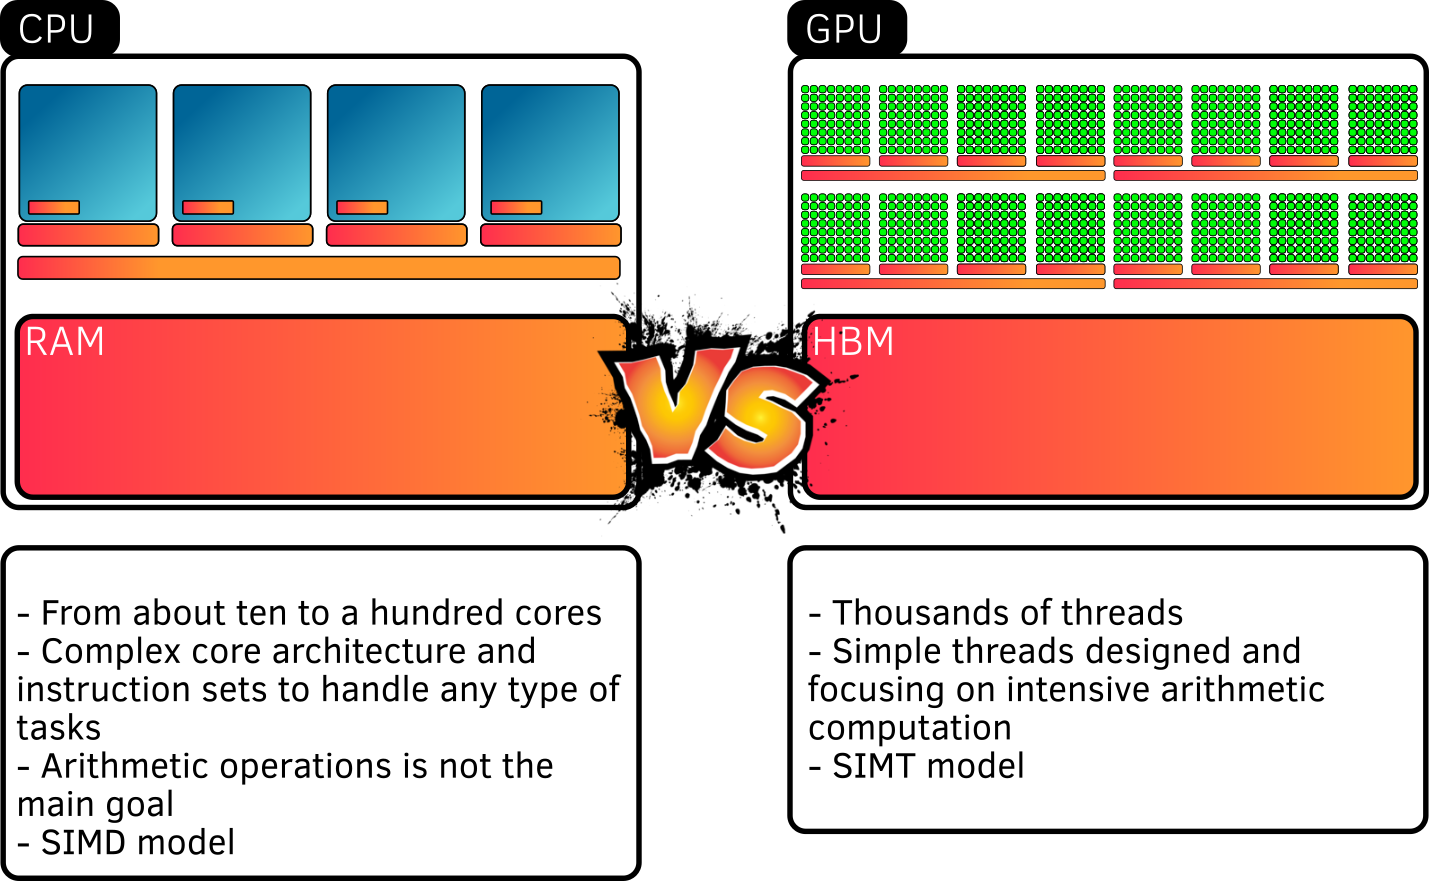
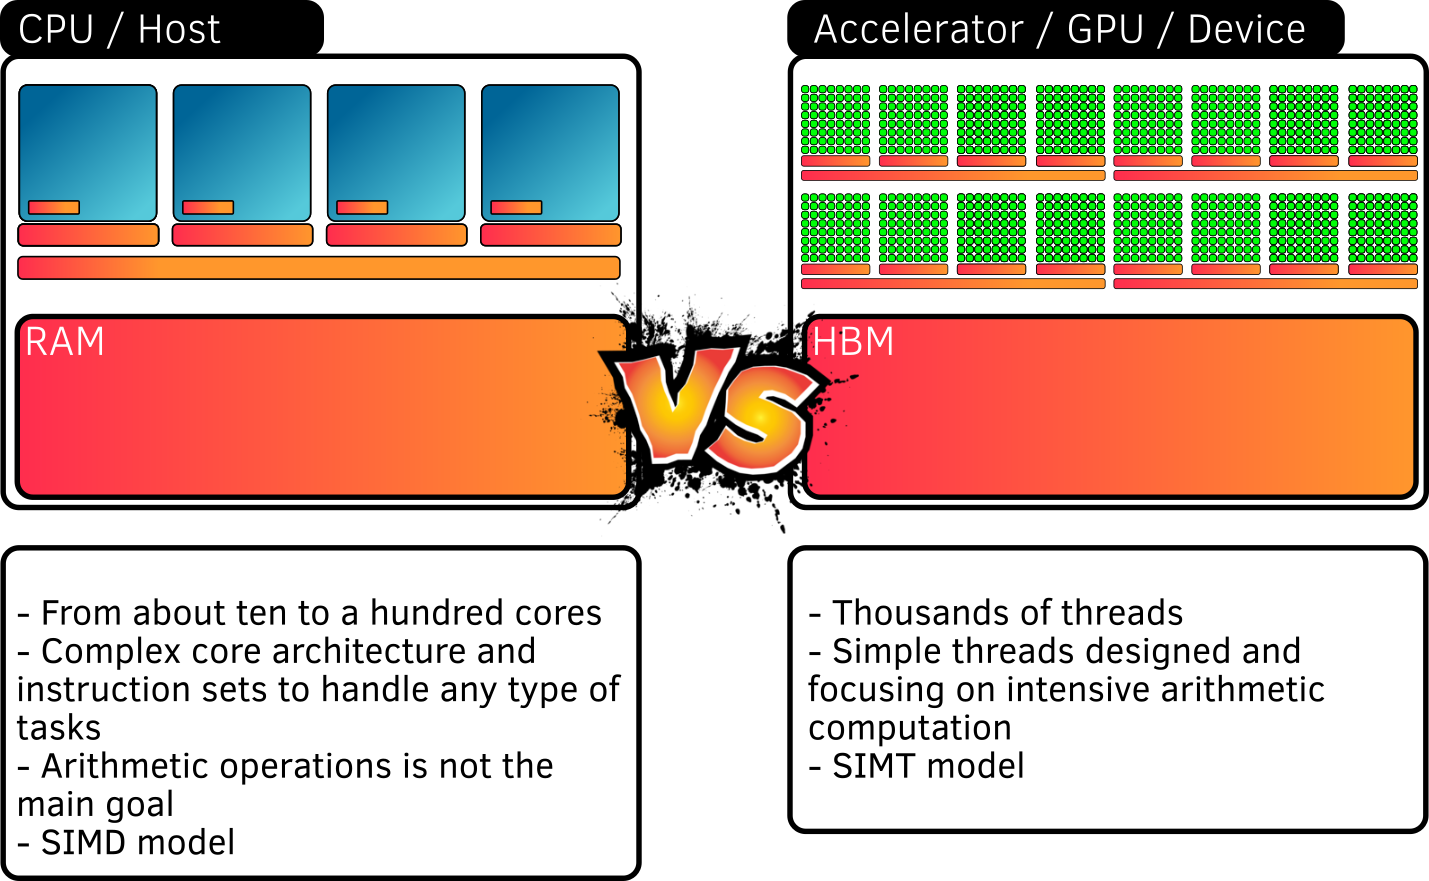
few more corrections

Changed region(s): [[0.5542, 0.0, 0.9545, 0.0613], [0.0616, 0.0, 0.2463, 0.0613]]

diff --git a/courses/01_beginners/main.tex b/courses/01_beginners/main.tex
@@ -7,6 +7,7 @@
 \usepackage[font=Times, timeinterval=1, timeduration=15]{tdclock}
 \usepackage{fontspec}
 \usepackage{pifont}
+\usepackage{hyperref}
 
 % Définir la police principale
 % \setmainfont{Clear Sans Light}
@@ -216,7 +217,8 @@ This course is intended for beginners in Kokkos and performance portability with
 
     \begin{itemize}
         \item A supercomputer is a distributed memory system composed of many compute nodes packed into racks and linked by a high-speed network
-        \item Compute nodes are composed of one or more CPUs and one or more GPUs
+        \item Compute nodes are composed of one or more CPUs and one or more accelerators
+        \item Most common accelerators today are GPGPU for General Purpose Graphic Processing Units
     \end{itemize}
 
     \begin{center}
@@ -232,7 +234,7 @@ This course is intended for beginners in Kokkos and performance portability with
     Architecture description
 
     \begin{itemize}
-        \item CPUs are designed for general purpose, from sequential task to parallel computing
+        \item CPUs are designed for general purpose, from sequential task to parallel computing. They run the operating system as well.
         \item tens to hundred of cores in biggest processors
         \item SIMD (Single Instruction Multiple Data) units for accelerating arithmetic operations
     \end{itemize}
@@ -251,7 +253,7 @@ This course is intended for beginners in Kokkos and performance portability with
 
 \small
 \begin{itemize}
-    \item GPGPUs (General Purpose Graphic Processing Units) are designed to achieve massive parallelism of simple kernels
+    \item GPUs are designed to achieve massive parallelism of simple kernels
     \item hundreds of computing units, thousands of threads
     \item Large SIMT vector unit (Single Instruction Multiple Threads) per computing unit
 \end{itemize}
@@ -273,6 +275,25 @@ This course is intended for beginners in Kokkos and performance portability with
     \begin{center}
         \includegraphics[width=0.8\textwidth]{../../images/cpu_vs_gpu.png}
     \end{center}
+
+\end{frame}
+
+% _____________________________________________________________________________
+
+\begin{frame}
+    \frametitle{Host / Device model}
+
+    \begin{itemize}
+        \item The program is always started first on the CPU.
+        \item The CPU is often referred to as the \highlight{Host}
+        \item The CPU orchestrates when the kernels are launched on the GPU and how to make the memory transfers
+        \item The GPU side waits for kernels to execute
+        \item The GPU is often referred to as the \highlight{Device}
+    \end{itemize}
+
+    \begin{alertblock}{}
+        Today's GPU can not work standalone
+    \end{alertblock}
 
 \end{frame}
 
@@ -602,7 +623,7 @@ cmake ${srcdir} -DCMAKE_INSTALL_PREFIX=${kokkos_install_folder} \
     \includegraphics[width=0.4\textwidth]{../../images/sleeping_otter.png}
     \end{center}
 
-    Go to the folder \texttt{01\_compiling\_kokkos} and follow the instructions in the README file
+    Go to the folder \href{https://github.com/CExA-project/cexa-kokkos-tutorials/tree/main/exercises/01_compiling_kokkos}{01\_compiling\_kokkos} and follow the instructions in the README file
 
     Goal of this Exercise:
     \begin{itemize}
@@ -694,7 +715,7 @@ target_link_libraries(test Kokkos::kokkos)
 
 \begin{itemize}
     \item Kokkos propagates its compilation flags to your program
-    \item If Kokkos not detected in your paths, use the \texttt{Kokkos\_ROOT} CMake variable to specify the path to Kokkos
+    \item If Kokkos is not detected in your paths, use the \texttt{Kokkos\_ROOT} CMake variable to specify the path to Kokkos
 \end{itemize}
 
 \small
@@ -714,6 +735,8 @@ cmake ${srcdir} \
     \begin{center}
     \includegraphics[width=0.4\textwidth]{../../images/sleeping_otter.png}
     \end{center}
+
+    Go to the folder \href{https://github.com/CExA-project/cexa-kokkos-tutorials/tree/main/exercises/02_first_program}{02\_first\_program} and follow the instructions in the README file
 
     Goal of this Exercise:
 
@@ -739,7 +762,7 @@ Why is it important to have an abstracted data container?
 \begin{itemize}
     \item No need to allocate or deallocate memory by hand
     \item Vendor-specific memory allocation is hidden
-    \item unified semantic and portable memory management (CPU and GPU)
+    \item Unified semantic and portable memory management (CPU and GPU)
     \item Advanced capability (abstracted layout, subarray, multidimensionality, etc.)
 \end{itemize}
 
@@ -840,7 +863,7 @@ for (int i = 0; i < Nx; i++) {
 
     \begin{itemize}
         \item A View lives in a specific memory space (Host or Device) not both
-        \item If Kokkos is compiled with \textbf{a CPU backend only}, the View data is allocated in the \textbf{Host memory} by defaults
+        \item If Kokkos is compiled with \highlight{a CPU backend only}, the View data is allocated in the \highlight{Host memory} by defaults
     \end{itemize}
 
     \centering
@@ -854,8 +877,8 @@ for (int i = 0; i < Nx; i++) {
     \frametitle{Where does the data reside?}
 
     \begin{itemize}
-        \item If Kokkos is compiled with a \textbf{GPU backend}, the View data is allocated in the \textbf{Device memory} by default
-        \item We will later how to allocate and copy data between the Host and the Device
+        \item If Kokkos is compiled with a \highlight{GPU backend}, the View data is allocated in the \highlight{Device memory} by default
+        \item We will later see how to allocate and copy data between the Host and the Device
     \end{itemize}
 
 \centering
@@ -876,7 +899,7 @@ for (int i = 0; i < Nx; i++) {
     \item Allocations only happen when explicitly specified
     \item Copy construction and assignment are shallow. So, you pass Views by value, not by reference. (Python like)
     \item Reference counting is used for automatic deallocation (like shared pointers)
-    \item Metadata (rank, extend, etc) is however always accessible on the Host
+    \item Metadata (rank, extent, etc) is however always accessible on the Host
 \end{itemize}
 
 \begin{alertblock}{}
@@ -934,7 +957,7 @@ for (int i = 0; i < Nx; i++) {
     \end{itemize}
 
     \begin{block}{}
-        Go to the exercise \texttt{02\_basic\_view} and follow the instructions in the README file
+        Go to the exercise \href{https://github.com/CExA-project/cexa-kokkos-tutorials/tree/main/exercises/03_basic_view}{03\_basic\_view} and follow the instructions in the README file
     \end{block}
 
 \end{frame}
@@ -945,7 +968,7 @@ for (int i = 0; i < Nx; i++) {
     \frametitle{Understand the notion of memory space}
 
 \begin{itemize}
-    \item Kokkos provides an abstraction of where the data lives: the memory space
+    \item Kokkos provides an abstraction of where the data lives: \textbf{the memory space}
     \item A View is always associated with a defined memory space (Host or Device for instance) at compilation time
     \item Default behavior: View data is allocated in the Host memory space if no GPU backend is available, else in the Device memory space
 \end{itemize}
@@ -957,7 +980,7 @@ for (int i = 0; i < Nx; i++) {
     \frametitle{Understand the notion of memory space}
 
 \begin{itemize}
-    \item Problem: how to deal with data residing in different memory spaces?
+    \item \textbf{Problem:} how to deal with data residing in different memory spaces?
 \end{itemize}
 
 \begin{center}
@@ -997,7 +1020,7 @@ Kokkos::View<int**, MemorySpace> my_matrix("matrix", Nx, Ny);
     \frametitle{Mirror Views presentation}
 
 \begin{itemize}
-    \item Solution: we need linked host and device view to access the data on both sides
+    \item \textbf{Solution:} we need linked host and device view to access the data on both sides
     \item Kokkos provides the notion of \textbf{mirror views}
     \item A mirror view is a view that is a copy of another view but in a different memory space
     \item There is a specific function to create a mirror view called \texttt{create\_mirror}
@@ -1011,7 +1034,7 @@ Kokkos::View<int**>::HostMirror host_matrix =
 \end{minted}
 
 \begin{itemize}
-\item Mirror views automatically inherit the properties of the original view (extent, layout, etc)
+\item A mirror view automatically inherits the properties of the original view (extent, layout, etc)
 \end{itemize}
 
 \end{frame}
@@ -1126,7 +1149,7 @@ Kokkos::deep_copy(device_matrix, host_matrix);
     \end{itemize}
 
     \begin{block}{}
-        Go to the exercise \texttt{03\_deep\_copy} and follow the instructions in the README file
+        Go to the exercise \href{https://github.com/CExA-project/cexa-kokkos-tutorials/tree/main/exercises/04_deep_copy}{04\_deep\_copy} and follow the instructions in the README file
     \end{block}
 
 \end{frame}
@@ -1215,6 +1238,7 @@ KOKKOS_LAMBDA(int i) {
 });
 \end{minted}
 
+\normalsize
 \begin{itemize}
     \item The previous OpenMP version only works on CPUs (need \texttt{target} directive for GPUs)
     \item The same Kokkos version works on CPUs and GPUs depending on the compile backend
@@ -1254,6 +1278,7 @@ KOKKOS_LAMBDA(int i) {
     \item If Kokkos is compiled with a GPU backend, the loop is executed on GPU by default
     \item Else, the loop is executed on the CPU
     \item Non-kokkos C++ code is always executed on the Host
+    \item Kokkos loops can have a name for debugging purpose
 \end{itemize}
 
 \end{frame}
@@ -1273,13 +1298,14 @@ KOKKOS_LAMBDA(int i) {
 // Kokkos parallel loop
 Kokkos::parallel_for("my_loop", N, KOKKOS_LAMBDA(int i) {...});
 
-// Host code
+// Host code executed during the parallel loop 
+// if Kokkos is compiled with a GPU backend
 for (int i = 0; i < N; i++) { ... }
 \end{minted}
 
 \normalsize
 
-Example: if Kokkos uses a GPU backend, the parallel loop is executed asynchronously on the GPU:
+
 \begin{itemize}
     \item If Kokkos uses a GPU backend, the parallel loop is executed asynchronously on the GPU
     \item \textbf{Problem:} what if I need the results of the parallel loop in the host code?
@@ -1329,7 +1355,7 @@ for (int i = 0; i < N; i++) { ... }
     \end{itemize}
 
     \begin{block}{}
-        Go to the exercise \texttt{05\_parallel\_loop} and follow the instructions in the README file
+        Go to the exercise \href{https://github.com/CExA-project/cexa-kokkos-tutorials/tree/main/exercises/05_parallel_loop}{05\_parallel\_loop} and follow the instructions in the README file
     \end{block}
 
 \end{frame}
@@ -1354,7 +1380,7 @@ Kokkos::RangePolicy<ExecutionSpace> policy(start_index, end_index);
 
 \begin{itemize}
     \item \texttt{ExecutionSpace} is an optional template parameter that specifies the execution space, by default the execution space is \texttt{DefaultExecutionSpace}.
-    \item \texttt{start\_index} and \texttt{end\_inde<x} are the start and end indexes of the loop
+    \item \texttt{start\_index} and \texttt{end\_index} are the beginning and end of the loop
 \end{itemize}
 
 \small
